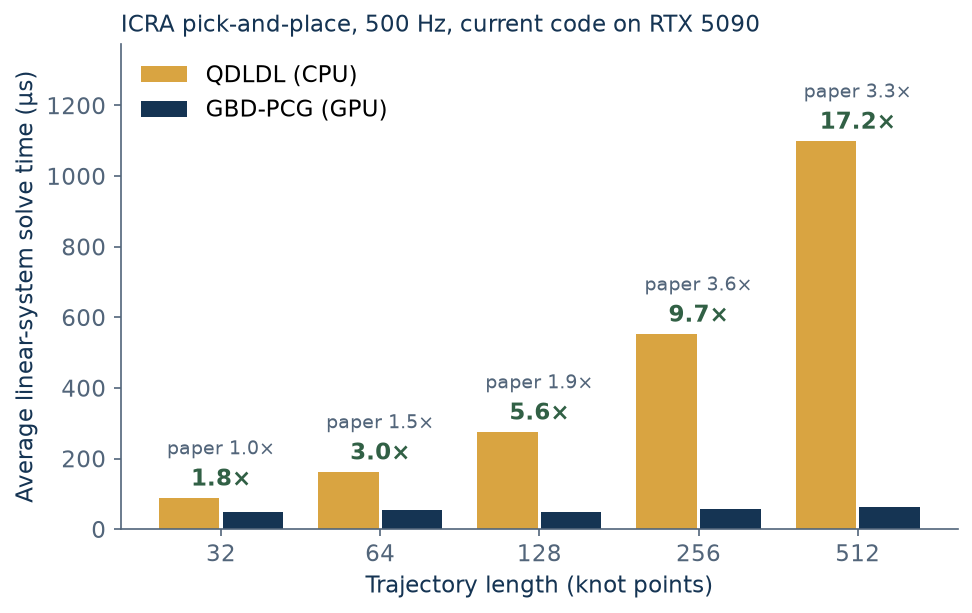
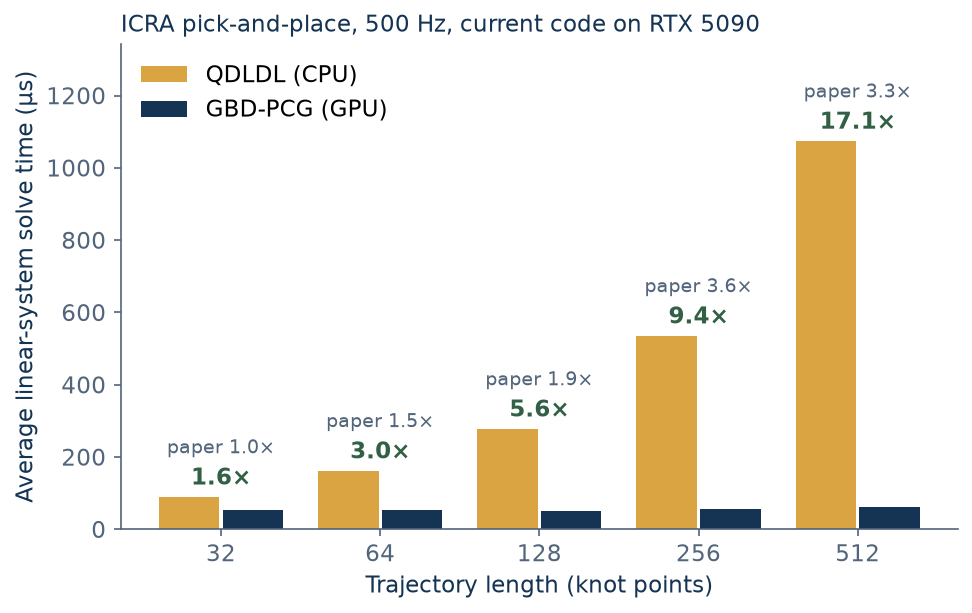
Timing refresh from the October 1 evening window (main 3566358): tables, plots, site text; tools/icra_tables.py prints the tables

diff --git a/docs/index.html b/docs/index.html
@@ -29,7 +29,7 @@
   </div></section>
   <section class="section wrap" id="results">
     <div class="eyebrow">02 / RESULTS</div>
-    <div class="research-grid"><div><h2>A solver designed<br>for longer horizons.</h2><p>MPCGPU solves the structured linear systems in nonlinear MPC with GPU-accelerated PCG. On the five-goal pick-and-place task from our paper, the current code compares GBD-PCG with CPU QDLDL on an NVIDIA RTX 5090.</p><p>GBD-PCG averages <strong>50–64 µs per linear-system solve</strong> at every horizon from 32 to 512 knot points, <strong>1.8× to 17× faster</strong> than QDLDL. It sustains kilohertz control rates with horizons as long as 512 knot points.</p><p>The gain over the published results comes mainly from fewer PCG iterations per solve. A Gauss-Newton cost Hessian and a corrected horizon update make the controller's linear systems easier, and GLASS makes each iteration slightly cheaper. <a class="text-link" href="https://github.com/A2R-Lab/MPCGPU/blob/main/docs/speedup-attribution.md">How the results changed ↗</a></p><a class="text-link" href="https://github.com/A2R-Lab/MPCGPU/blob/main/docs/icra-replication.md">Read the protocol and complete results ↗</a><aside class="evidence"><strong>Current results</strong><p>RTX 5090 · Intel Core Ultra 9 285K · CUDA 13.2, measured September 30, 2026, three repeats per configuration. Historical results for the original code, on an RTX 4090 with CUDA 12.1, are in <a href="https://arxiv.org/abs/2309.08079">our ICRA 2024 paper</a>.</p></aside></div><figure><img src="assets/current-linsys-time.png" width="972" height="613" loading="lazy" alt="Current average linear-system solve times for CPU QDLDL and GPU GBD-PCG from 32 to 512 knot points; GBD-PCG stays between 50 and 64 microseconds while QDLDL grows to 1100 microseconds."><figcaption>Average linear-system solve time on the pick-and-place task at 500 Hz, current code. Grey labels give the paper's speedups.</figcaption></figure></div>
+    <div class="research-grid"><div><h2>A solver designed<br>for longer horizons.</h2><p>MPCGPU solves the structured linear systems in nonlinear MPC with GPU-accelerated PCG. On the five-goal pick-and-place task from our paper, the current code compares GBD-PCG with CPU QDLDL on an NVIDIA RTX 5090.</p><p>GBD-PCG averages <strong>49–63 µs per linear-system solve</strong> at every horizon from 32 to 512 knot points, <strong>1.6× to 17× faster</strong> than QDLDL. It sustains kilohertz control rates with horizons as long as 512 knot points.</p><p>The gain over the published results comes mainly from fewer PCG iterations per solve. A Gauss-Newton cost Hessian and a corrected horizon update make the controller's linear systems easier, and GLASS makes each iteration slightly cheaper. <a class="text-link" href="https://github.com/A2R-Lab/MPCGPU/blob/main/docs/speedup-attribution.md">How the results changed ↗</a></p><a class="text-link" href="https://github.com/A2R-Lab/MPCGPU/blob/main/docs/icra-replication.md">Read the protocol and complete results ↗</a><aside class="evidence"><strong>Current results</strong><p>RTX 5090 · Intel Core Ultra 9 285K · CUDA 13.2, measured September 30, 2026, three repeats per configuration. Historical results for the original code, on an RTX 4090 with CUDA 12.1, are in <a href="https://arxiv.org/abs/2309.08079">our ICRA 2024 paper</a>.</p></aside></div><figure><img src="assets/current-linsys-time.png" width="972" height="613" loading="lazy" alt="Current average linear-system solve times for CPU QDLDL and GPU GBD-PCG from 32 to 512 knot points; GBD-PCG stays between 50 and 64 microseconds while QDLDL grows to 1100 microseconds."><figcaption>Average linear-system solve time on the pick-and-place task at 500 Hz, current code. Grey labels give the paper's speedups.</figcaption></figure></div>
     <figure class="wide-figure"><img src="assets/current-sqp-iterations.png" width="1564" height="475" loading="lazy" alt="Average SQP iterations per control step at 250 Hz, 500 Hz and 1 kHz for QDLDL and GBD-PCG across horizons, with the paper's values beneath each cell."><figcaption>SQP iterations completed per control step within the control period. QDLDL cannot keep up at 512 knot points and 1 kHz.</figcaption></figure>
   </section>
   <section class="software section" id="software"><div class="wrap">

diff --git a/tools/icra_tables.py b/tools/icra_tables.py
@@ -1,0 +1,84 @@
+#!/usr/bin/env python3
+"""Print the docs/icra-replication.md result tables from a `tools/timing.py run` ICRA directory.
+
+Usage: icra_tables.py ICRA_RUN_DIR
+Reads the harness verdicts and raw per-solve samples; measures nothing. The statistics match
+tools/plot_timing.py: Figure 4 and the Figure 6 grid are means over repeats, Figure 5 pools the
+repeats' raw solves. Published values come from the paper's text and Figure 6 table.
+"""
+import json
+from pathlib import Path
+import sys
+
+import numpy as np
+
+HORIZONS = [32, 64, 128, 256, 512]
+PUBLISHED_SPEEDUP = {32: 1.0, 64: 1.5, 128: 1.9, 256: 3.6, 512: 3.3}
+PUBLISHED_FIG5_10X = {"1e-4": 65, "5e-5": 52, "1e-5": 20}      # percent of solves >=10x faster than fastest QDLDL
+PUBLISHED_FIG6 = {("qdldl", 250): [21, 14, 8, 4, 2], ("qdldl", 500): [10, 6.5, 4, 2, 1],
+                  ("qdldl", 1000): [4, 3, 1, None, None], ("pcg", 250): [22.2, 19.7, 15.4, 5.2, 4.4],
+                  ("pcg", 500): [10.3, 10.6, 8, 4.6, 3], ("pcg", 1000): [4.9, 5.2, 3.7, 2.4, 1.7]}
+
+
+def verdicts(run_dir: Path):
+    out = {}
+    for path in sorted(run_dir.glob("*/verdict.json")):
+        verdict = json.loads(path.read_text())
+        out.setdefault(verdict["workload"]["id"], []).append((verdict, path.parent))
+    return out
+
+
+def linsys(case: Path) -> np.ndarray:
+    return np.loadtxt(case / "icra" / "trial_0_linsys_times.result", ndmin=1)
+
+
+def figure4(v):
+    print("| N | QDLDL (µs) | GBD-PCG (µs) | Speedup | Paper speedup | PCG mean L2 error (m) |")
+    print("| ---: | ---: | ---: | ---: | ---: | ---: |")
+    spread = {"pcg": 0.0, "qdldl": 0.0}
+    for n in HORIZONS:
+        means = {b: [linsys(c).mean() for _, c in v[f"icra-{b}-{n}-linsys-500hz"]] for b in ("qdldl", "pcg")}
+        for b in means:
+            spread[b] = max(spread[b], (max(means[b]) - min(means[b])) / np.mean(means[b]) * 100)
+        q, p = np.mean(means["qdldl"]), np.mean(means["pcg"])
+        err = np.mean([d["tracking_mean_l2"] for d, _ in v[f"icra-pcg-{n}-linsys-500hz"]])
+        print(f"| {n} | {q:.0f} | {p:.0f} | {q / p:.1f}× | {PUBLISHED_SPEEDUP[n]:.1f}× | {err:.4f} |")
+    print(f"\nRepeat spread (max-min over mean): PCG {spread['pcg']:.1f}%, QDLDL {spread['qdldl']:.1f}%")
+
+
+def figure5(v):
+    qd = np.concatenate([linsys(c) for _, c in v["icra-qdldl-128-linsys-500hz"]])
+    fastest, p999 = qd.min(), np.percentile(qd, 99.9)
+    print(f"\nQDLDL N=128: median {np.median(qd):.0f} µs, fastest {fastest:.0f} µs, 99.9th percentile {p999:.0f} µs, "
+          f"slowest {qd.max():.0f} µs")
+    print("\n| ε | Median (µs) | Mean (µs) | ≥10× faster than fastest QDLDL | Paper | Slowest / QDLDL p99.9 | ≥2× QDLDL p99.9 | Mean L2 error (m) |")
+    print("| --- | ---: | ---: | ---: | ---: | ---: | ---: | ---: |")
+    for label, key in [("10⁻⁴", "icra-pcg-128-linsys-500hz"), ("5·10⁻⁵", "icra-pcg-128-linsys-500hz-tol5e-5"),
+                       ("10⁻⁵", "icra-pcg-128-linsys-500hz-tol1e-5")]:
+        data = np.concatenate([linsys(c) for _, c in v[key]])
+        err = np.mean([d["tracking_mean_l2"] for d, _ in v[key]])
+        paper = PUBLISHED_FIG5_10X[{"10⁻⁴": "1e-4", "5·10⁻⁵": "5e-5", "10⁻⁵": "1e-5"}[label]]
+        print(f"| {label} | {np.median(data):.0f} | {data.mean():.0f} | {np.mean(data < fastest / 10) * 100:.0f}% | {paper}% | "
+              f"{data.max() / p999:.1f}× | {np.mean(data > 2 * p999) * 100:.1f}% | {err:.4f} |")
+
+
+def figure6(v):
+    print("\n| Solver | Rate | N = 32 | 64 | 128 | 256 | 512 |")
+    print("| --- | --- | ---: | ---: | ---: | ---: | ---: |")
+    for backend, name in [("qdldl", "QDLDL"), ("pcg", "GBD-PCG")]:
+        for rate in (250, 500, 1000):
+            cells = []
+            for j, n in enumerate(HORIZONS):
+                runs = [d for d, _ in v[f"icra-{backend}-{n}-iters-{rate}hz"]]
+                lost = max(d["tracking_max_l2"] for d in runs) > 1
+                published = PUBLISHED_FIG6[(backend, rate)][j]
+                shown = "lost" if lost else f"{np.mean([d['sqp_iters_mean'] for d in runs]):.1f}"
+                cells.append(f"{shown} ({published if published is not None else 'X'})")
+            print(f"| {name} | {rate if rate < 1000 else 1000} Hz | " + " | ".join(cells) + " |")
+
+
+if __name__ == "__main__":
+    run = verdicts(Path(sys.argv[1]))
+    figure4(run)
+    figure5(run)
+    figure6(run)

diff --git a/tools/plot_timing.py b/tools/plot_timing.py
@@ -184,8 +184,8 @@ def paper_vs_current(res: Path, out: Path, current: Path | None = None):
         paper_t.append(np.median([np.loadtxt(r / f"tmp/results/{n}_PCG_{PAPER_TOL[n]}_0_linsys_times.result").mean() for r in runs]))
         paper_i.append(np.median([np.loadtxt(r / f"tmp/results/{n}_PCG_{PAPER_TOL[n]}_0_pcg_iters.result").mean() for r in runs]))
         cases = sorted(current.glob(f"icra-pcg-{n}-linsys-500hz-r*"))
-        cur_t.append(np.median([linsys(c).mean() for c in cases]))
-        cur_i.append(np.median([json.loads((c / "icra/summary.json").read_text())["linsys"]["mean_pcg_iters"] for c in cases]))
+        cur_t.append(np.mean([linsys(c).mean() for c in cases]))
+        cur_i.append(np.mean([json.loads((c / "icra/summary.json").read_text())["linsys"]["mean_pcg_iters"] for c in cases]))
     x = np.arange(len(HORIZONS))
     fig, ax = plt.subplots(figsize=(7.2, 4.2))
     ax.bar(x - 0.2, paper_t, 0.38, color=GOLD, label="Published code (2024)")

diff --git a/docs/icra-replication.md b/docs/icra-replication.md
@@ -81,7 +81,7 @@ Repeated trials are bit-identical: the signed-suite gates run two trials at N = 
 for each backend and compare state hashes. The paper reports about 10 cm average L1
 error; every configuration here stays below that.
 
-## Timing results (September 30, 2026)
+## Timing results (October 1, 2026)
 
 Collected in an assigned quiet window on the RTX 5090 / Core Ultra 9 285K / CUDA 13.2 host,
 source `04764ee`, receipt `bccb34a`, three independent repeats per workload. Raw samples,
@@ -93,28 +93,28 @@ not raw latency.
 
 | N | QDLDL (µs) | GBD-PCG (µs) | Speedup | Paper speedup | PCG mean L2 error (m) |
 | ---: | ---: | ---: | ---: | ---: | ---: |
-| 32 | 88 | 50 | 1.8× | 1.0× | 0.0486 |
-| 64 | 162 | 54 | 3.0× | 1.5× | 0.0639 |
-| 128 | 275 | 49 | 5.6× | 1.9× | 0.0107 |
-| 256 | 552 | 57 | 9.7× | 3.6× | 0.0111 |
-| 512 | 1099 | 64 | 17.2× | 3.3× | 0.0135 |
+| 32 | 89 | 54 | 1.6× | 1.0× | 0.0407 |
+| 64 | 162 | 54 | 3.0× | 1.5× | 0.0627 |
+| 128 | 277 | 49 | 5.6× | 1.9× | 0.0108 |
+| 256 | 535 | 57 | 9.4× | 3.6× | 0.0110 |
+| 512 | 1074 | 63 | 17.1× | 3.3× | 0.0132 |
 
-Across repeats, each mean varies by at most 4.5% for PCG and 3.5% for QDLDL, except QDLDL at
-N = 256 at 8.3%. GBD-PCG time stays nearly flat with horizon here, so the speedups are much
+Across the three repeats, the per-repeat means spread by at most 2.8% of their mean for PCG and
+6.6% for QDLDL. The tables are printed by `tools/icra_tables.py` from the run directory. GBD-PCG time stays nearly flat with horizon here, so the speedups are much
 larger than published. [The attribution](speedup-attribution.md) traces this to fewer PCG iterations
 per solve, from controller fixes; GLASS and the new GPU contribute little.
 
 ### Figure 5: solve-time distribution at N = 128
 
-QDLDL: median 273 µs, fastest 266 µs, 99.9th percentile 305 µs.
-Its single slowest solve, 4555 µs, is an isolated outlier, so tails are compared with
-its 99.9th percentile.
+QDLDL: median 272 µs, fastest 266 µs, 99.9th percentile 313 µs, slowest 1559 µs. Tails are
+compared with the 99.9th percentile so that single outliers do not dominate; GBD-PCG at ε = 10⁻⁴
+has one such outlier (one solve of about 6.1 ms among 156 000), which is the 19.5× entry below.
 
 | ε | Median (µs) | Mean (µs) | ≥10× faster than fastest QDLDL | Paper | Slowest / QDLDL p99.9 | ≥2× QDLDL p99.9 | Mean L2 error (m) |
 | --- | ---: | ---: | ---: | ---: | ---: | ---: | ---: |
-| 10⁻⁴ | 23 | 49 | 78% | 65% | 2.8× | 1.0% | 0.0107 |
-| 5·10⁻⁵ | 23 | 56 | 74% | 52% | 2.8× | 1.2% | 0.0118 |
-| 10⁻⁵ | 23 | 70 | 67% | 20% | 2.9× | 1.6% | 0.0140 |
+| 10⁻⁴ | 23 | 49 | 79% | 65% | 19.5× | 1.0% | 0.0108 |
+| 5·10⁻⁵ | 23 | 57 | 74% | 52% | 2.8× | 1.3% | 0.0118 |
+| 10⁻⁵ | 23 | 69 | 67% | 20% | 4.0× | 1.5% | 0.0141 |
 
 The paper's ordering holds: tighter tolerances shift mass out of the fast mode, and PCG
 keeps a slow mode near the QDLDL time.
@@ -123,12 +123,12 @@ keeps a slow mode near the QDLDL time.
 
 | Solver | Rate | N = 32 | 64 | 128 | 256 | 512 |
 | --- | --- | ---: | ---: | ---: | ---: | ---: |
-| QDLDL | 250 Hz | 19.5 (21) | 14.0 (14) | 9.0 (8) | 5.0 (4) | 2.0 (2) |
-| QDLDL | 500 Hz | 9.2 (10) | 7.0 (6.5) | 4.0 (4) | 2.0 (2) | 1.0 (1) |
+| QDLDL | 250 Hz | 19.9 (21) | 14.0 (14) | 9.2 (8) | 5.0 (4) | 2.0 (2) |
+| QDLDL | 500 Hz | 9.3 (10) | 6.9 (6.5) | 4.0 (4) | 2.0 (2) | 1.0 (1) |
 | QDLDL | 1000 Hz | 4.0 (4) | 3.0 (3) | 2.0 (1) | 1.0 (X) | lost (X) |
-| GBD-PCG | 250 Hz | 22.0 (22.2) | 21.4 (19.7) | 18.3 (15.4) | 16.0 (5.2) | 10.1 (4.4) |
-| GBD-PCG | 500 Hz | 11.2 (10.3) | 10.9 (10.6) | 9.8 (8) | 8.7 (4.6) | 5.2 (3) |
-| GBD-PCG | 1000 Hz | 5.4 (4.9) | 5.3 (5.2) | 5.0 (3.7) | 4.3 (2.4) | 2.6 (1.7) |
+| GBD-PCG | 250 Hz | 21.7 (22.2) | 21.4 (19.7) | 18.3 (15.4) | 16.0 (5.2) | 10.2 (4.4) |
+| GBD-PCG | 500 Hz | 10.9 (10.3) | 10.9 (10.6) | 9.9 (8) | 8.7 (4.6) | 5.2 (3) |
+| GBD-PCG | 1000 Hz | 5.3 (4.9) | 5.3 (5.2) | 5.0 (3.7) | 4.3 (2.4) | 2.6 (1.7) |
 
 Paper values are in parentheses. "lost" marks QDLDL at N = 512 and 1 kHz: one QDLDL solve
 exceeds the 1 ms budget, no SQP iteration completes and the arm leaves the circuit. The
@@ -164,12 +164,13 @@ solve, approximating the earlier code. Tracking is identical between the two mod
 - **PCG tolerance matters at short horizons.** At N = 32 with the sweep's middle value,
   5·10⁻⁶, PCG passes within 11 cm of the second goal and fails the 5 cm visit check. The
   tighter values from the paper's own N = 32 sweep, 2.5·10⁻⁶ and 10⁻⁶, bring every goal
-  within 5 cm, so 2.5·10⁻⁶ is the N = 32 default since October 1, 2026. The N = 32 timing
-  cells in the table above were collected at 5·10⁻⁶ and will be re-collected at the new
-  default in the next timing window. This matches the paper's observation that looser
+  within 5 cm, so 2.5·10⁻⁶ is the N = 32 default since October 1, 2026, and the tables above
+  use it: against the earlier 5·10⁻⁶ run, N = 32 PCG needs 7.3 instead of 6.4 iterations per
+  solve (54 instead of 50 µs, 1.6× instead of 1.8× over QDLDL) and its mean tracking error
+  falls from 4.9 to 4.1 cm. This matches the paper's observation that looser
   tolerances trade tracking for speed.
 - **Inexact PCG steps end some SQP loops early.** The line search fails until ρ
-  exceeds its maximum on 355 to 2110 of about 5200 control updates; QDLDL has none.
+  exceeds its maximum on 24 to 1109 of 5204 control updates; QDLDL has none.
   Even so, PCG tracks more closely than QDLDL at N ≥ 128. The cause of that
   difference is not yet isolated.
 - **N = 64 tracks worse than N = 32** because the paper used a ten times larger
@@ -191,7 +192,8 @@ solve, approximating the earlier code. Tracking is identical between the two mod
   for the main integration candidate).
 - [x] Paper-task timing manifest: `tools/timing.py prepare --task icra` builds the
   Figure 4, 5 and 6 workloads (see the timing section of [development](development.md)).
-- [x] Paper-task timing collection on September 30 (tables above), labeled by host.
+- [x] Paper-task timing collection on October 1 (tables above; the September 30 collection
+  preceded the N = 32 tolerance change), labeled by host.
 - [x] Attribute the larger-than-published PCG speedups ([attribution](speedup-attribution.md), October 1).
 - [x] Website shows the current results with hardware and date; the paper holds the
   historical results.

diff --git a/docs/speedup-attribution.md b/docs/speedup-attribution.md
@@ -1,9 +1,9 @@
 # Why the ICRA results moved (attribution, October 1, 2026)
 
-For review before the main merge. The September 30 timing on the RTX 5090 gave GBD-PCG
-average linear-system times of 50–64 µs at every horizon, against 75–360 µs in the paper.
-QDLDL on the CPU stayed within about 15% of the paper, so the speedup over QDLDL grew from
-1.0–3.6× to 1.8–17×. This document splits that change into its causes.
+The October 1, 2026 timing on the RTX 5090 gave GBD-PCG average linear-system times of
+49–63 µs at every horizon, against 75–360 µs in the paper. QDLDL on the CPU stayed within
+about 15% of the paper, so the speedup over QDLDL grew from 1.0–3.6× to 1.6–17×. This
+document splits that change into its causes.
 
 Average PCG solve time is iterations per solve times time per iteration, plus a fixed launch
 and copy-back cost. Each factor was measured separately.
@@ -60,7 +60,7 @@ cost is the slope between the two; the one-iteration solve is the fixed launch a
 Moving GBD-PCG onto GLASS (commit `bc60729`, its only change) cut the time per iteration by 0.7–4.6%,
 most at short and medium horizons. Later GBD-PCG changes, the relative tolerance, converged-start
 guard and safety checks, left it unchanged. The fixed cost of about 23 µs at N ≤ 256 is the same in
-every version, and it is most of today's 50–64 µs average because current solves need few iterations.
+every version, and it is most of today's 49–63 µs average because current solves need few iterations.
 
 ![Time per PCG iteration by kernel version](attribution-per-iteration.png)
 
@@ -69,21 +69,21 @@ every version, and it is most of today's 50–64 µs average because current sol
 The published code was rebuilt unchanged for this GPU and run exactly as in the paper: 500 Hz,
 2000 µs wall-clock SQP budget, linear-system timers, its middle tolerances, three repeats. Its
 speedups over QDLDL are 1.2–2.9×, the same range as the published 1.0–3.6× and far from the current
-code's 1.8–17×, so the new hardware does not explain the new results. Point by point it is close to the
+code's 1.6–17×, so the new hardware does not explain the new results. Point by point it is close to the
 published GBD-PCG times at N = 32, 128 and 512, faster at 64 and slower at 256. Its PCG time varies
 strongly between runs: at N = 128 the three repeats gave 333, 152 and 138 µs, against about 150 µs read
 from the published Figure 4. QDLDL on the CPU matches the published bars within about 15%.
 
 | N | Paper code PCG (µs, median [range]) | Paper code iterations | Current PCG (µs) | Current iterations | Paper code QDLDL (µs) | Current QDLDL (µs) | Paper code speedup | Current speedup | Published speedup |
 | ---: | ---: | ---: | ---: | ---: | ---: | ---: | ---: | ---: | ---: |
-| 32 | 71 [71–72] | 10.9 | 50 | 6.4 | 86 | 88 | 1.2× | 1.8× | 1.0× |
+| 32 | 71 [71–72] | 10.9 | 54 | 7.3 | 86 | 89 | 1.2× | 1.6× | 1.0× |
 | 64 | 64 [62–65] | 9.2 | 54 | 7.0 | 144 | 162 | 2.2× | 3.0× | 1.5× |
-| 128 | 152 [138–333] | 25.8 | 49 | 5.6 | 276 | 275 | 1.8× | 5.6× | 1.9× |
-| 256 | 283 [253–305] | 42.3 | 57 | 6.2 | 543 | 552 | 1.9× | 9.7× | 3.6× |
-| 512 | 367 [362–391] | 41.8 | 64 | 5.2 | 1078 | 1099 | 2.9× | 17.2× | 3.3× |
+| 128 | 152 [138–333] | 25.8 | 49 | 5.6 | 276 | 277 | 1.8× | 5.6× | 1.9× |
+| 256 | 283 [253–305] | 42.3 | 57 | 6.2 | 543 | 535 | 1.9× | 9.4× | 3.6× |
+| 512 | 367 [362–391] | 41.8 | 63 | 5.1 | 1078 | 1074 | 2.9× | 17.1× | 3.3× |
 
-Current-code columns are means over the three repeats, the statistic the plots and the replication
-notes use; paper-code columns are medians with the range because of the N = 128 outlier.
+Current-code columns are means over the three repeats of the October 1 evening run (N = 32 at its
+2.5·10⁻⁶ default), the statistic the plots and the replication notes use; paper-code columns are medians with the range because of the N = 128 outlier.
 
 ![Published versus current code on this host](attribution-paper-vs-current.png)
 

diff --git a/docs/website.md b/docs/website.md
@@ -21,7 +21,7 @@ page resolves.
 `assets/architecture.png` and `pick-place.png` are figure-region renders of Figures 2 and 3
 from our ICRA 2024 paper, arXiv:2309.08079v3 (https://arxiv.org/pdf/2309.08079).
 `assets/current-linsys-time.png` and `current-sqp-iterations.png` are rendered by
-`tools/plot_timing.py` from the September 30, 2026 timing runs of the current code (see
+`tools/plot_timing.py` from the October 1, 2026 timing runs of the current code (see
 docs/icra-replication.md). The MPCGPU code, documentation, website and these figures are
 released under the repository's MIT license.
 
